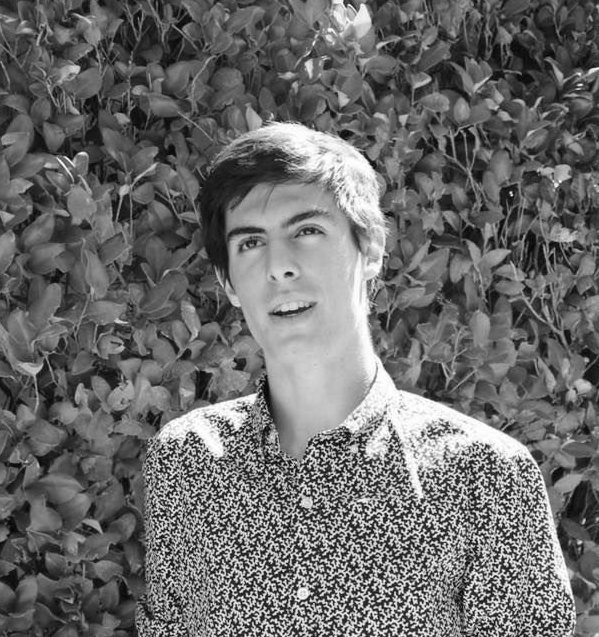
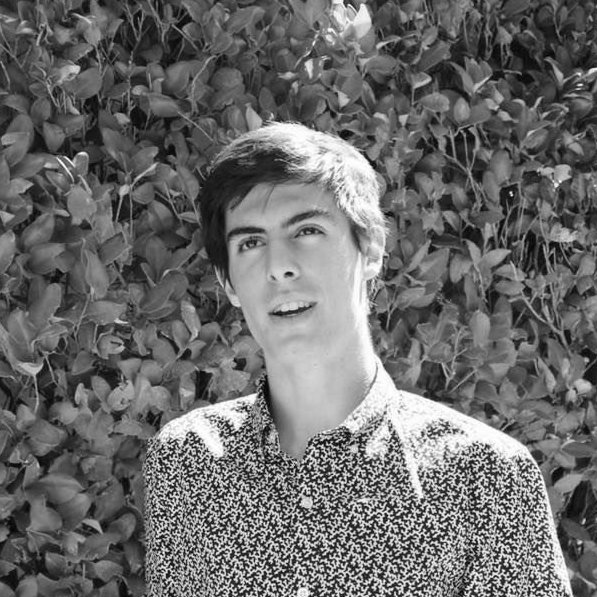
Mentor update
added Carl
adjusted Singer’s picture
changed order

diff --git a/mentors.html b/mentors.html
@@ -41,22 +41,23 @@
     <h1>Meet your mentors.</h1>
     <div class="twelve-hundred">
       <div class="mentor"><h2>Sameer Gupta</h2><img class="mentor-image" src="images/Sameer.jpg" /><p>Co-founder of Golfstream, Founding Member of the Weiss Tech House at the University of Pennsylvania.</p><img class="mentor-school" src="images/UPenn.jpg" /><img class="mentor-school" src="images/m&t.jpg" /></div>
-      <div class="mentor"><h2>Ari Engelberg</h2><img class="mentor-image" src="images/Ari.jpg" /><p>Co-founder of Stamps.com, former Exec Director of Bright Star Schools.</p><img class="mentor-school" src="images/BerkelyMain.png" /><img class="mentor-school" src="images/UCLAanderson.png" /><img class="mentor-school" src="images/UCLALaw.jpeg" /></div>
-      <div class="mentor"><h2>Natalie Bartlett</h2><img class="mentor-image" src="images/Natalie.jpg" /><p>Associate at General Catalyst, Platform Manager at Rough Draft Ventures.</p><img class="mentor-school" src="images/HarvardEd.jpg" /><img class="mentor-school" src="images/UPenn.jpg" /></div>
-      <div class="mentor"><h2>Bill Leamon</h2><img class="mentor-image" src="images/Bill.jpg" /><p>Co-founder of America Mentors & Sea Change, Professor of Entrepreneurship at Notre Dame.</p><img class="mentor-school" src="images/CaseWestern.jpg" /><img class="mentor-school" src="images/Citadel.jpg" /></div>
       <div class="mentor"><h2>Jerry Wilmink</h2><img class="mentor-image" src="images/Jerry.jpg" /><p>Founder & CEO of WiseWear, Advisor & Mentor at Techstars, YEC Member.</p><img class="mentor-school" src="images/Vanderbilt.jpg" /><img class="mentor-school" src="images/UTAustin.png" /></div>
+      <div class="mentor"><h2>Natalie Bartlett</h2><img class="mentor-image" src="images/Natalie.jpg" /><p>Associate at General Catalyst, Platform Manager at Rough Draft Ventures.</p><img class="mentor-school" src="images/HarvardEd.jpg" /><img class="mentor-school" src="images/UPenn.jpg" /></div>
+      <div class="mentor"><h2>Carl Sjogreen</h2><img class="mentor-image" src="images/Carl.png" /><p>Co-founder of Seesaw Learning & nextstop.com (sold to Facebook), Former PM at Facebook & Google.</p><img class="mentor-school" src="images/Harvard.png" /></div>
+      <div class="mentor"><h2>Ari Engelberg</h2><img class="mentor-image" src="images/Ari.jpg" /><p>Co-founder of Stamps.com, former Exec Director of Bright Star Schools.</p><img class="mentor-school" src="images/BerkelyMain.png" /><img class="mentor-school" src="images/UCLAanderson.png" /><img class="mentor-school" src="images/UCLALaw.jpeg" /></div>
       <div class="mentor"><h2>Richard Dulude</h2><img class="mentor-image" src="images/Richard.jpg" /><p>Principal at _Underscore.VC, P&G eCommerce Brand Manager, former Developer at Apple (iTunes).</p><img class="mentor-school" src="images/HBS.jpg" /><img class="mentor-school" src="images/Cornell.png" /></div>
       <div class="mentor"><h2>Jon Stahl</h2><img class="mentor-image" src="images/Jon.jpeg" /><p>Co-founder & CEO of LeanDog, Agile Software Development Coach.</p><img class="mentor-school" src="images/Ohio.jpg" /></div>
+      <div class="mentor"><h2>Bill Leamon</h2><img class="mentor-image" src="images/Bill.jpg" /><p>Co-founder of America Mentors & Sea Change, Professor of Entrepreneurship at Notre Dame.</p><img class="mentor-school" src="images/CaseWestern.jpg" /><img class="mentor-school" src="images/Citadel.jpg" /></div>
       <div class="mentor"><h2>Patrick Cines</h2><img class="mentor-image" src="images/Patrick.jpg" /><p>Partner Development Associate at Google, Growth at Uber.</p><img class="mentor-school" src="images/Penn State.png" /></div>
       <div class="mentor"><h2>Diana Yuan</h2><img class="mentor-image" src="images/Diana.png" /><p>Co-founder & COO of indico data solutions, Babson eTower President.</p><img class="mentor-school" src="images/Babson.png" /></div>
-      <div class="mentor"><h2>Jillian Kando</h2><img class="mentor-image" src="images/Jillian.jpg" /><p>CTO of Cut & Fold, former CTO of Bookity & Co-founder of CraveLabs.</p><img class="mentor-school" src="images/NUCEE.jpg" /></div>
       <div class="mentor"><h2>Jeremy Gardner</h2><img class="mentor-image" src="images/Jeremy.jpg" /><p>Co-founder of Augur & the Blockchain Education Network, Entrepreneur in Residence at Blockchain Capital.</p><img class="mentor-school" src="images/Michigan.png" /><img class="mentor-school" src="images/Bard.png" /></div>
+      <div class="mentor"><h2>Jillian Kando</h2><img class="mentor-image" src="images/Jillian.jpg" /><p>CTO of Cut & Fold, former CTO of Bookity & Co-founder of CraveLabs.</p><img class="mentor-school" src="images/NUCEE.jpg" /></div>
       <div class="mentor"><h2>Daniel Singer</h2><img class="mentor-image" src="images/Daniel.jpg" /><p>Product at Sensay and Disrupt Cards. Founder of Bond & Backchat.</p><img class="mentor-school" src="images/hw dropout.png" /></div>
-      <div class="mentor"><h2>Bridgette Wallace</h2><img class="mentor-image" src="images/Bridgette.jpg" /><p>Founder of Skylab Boston, Masters in Public Policy.</p><img class="mentor-school" src="images/Tufts.png" /></div>
       <div class="mentor"><h2>Jackie Phillips</h2><img class="mentor-image" src="images/Jackie.jpg" /><p>Founder of Precious Beast (an art & graphic design studio), Entertainment Industry Professional.</p><img class="mentor-school" src="images/Northwestern.png" /></div>
+      <div class="mentor"><h2>Bridgette Wallace</h2><img class="mentor-image" src="images/Bridgette.jpg" /><p>Founder of Skylab Boston, Masters in Public Policy.</p><img class="mentor-school" src="images/Tufts.png" /></div>
       <div class="mentor"><h2>Hanson Grant</h2><img class="mentor-image" src="images/Hanson.jpg" /><p>Founder & CEO of Think Board, MassChallenge Finalist.</p><img class="mentor-school" src="images/Babson.png" /></div>
-      <div class="mentor"><h2>Derek Tu</h2><img class="mentor-image" src="images/Derek.jpg" /><p>Co-founder of Womentum, Student Partner at Rough Draft Ventures.</p><img class="mentor-school" src="images/Babson.png" /></div>
       <div class="mentor"><h2>Jacob Roscoe</h2><img class="mentor-image" src="images/Jacob.png" /><p>Co-founder of Object Digital Media, Co-President of the NYIT Student Advisory Board.</p><img class="mentor-school" src="images/NYIT.png" /></div>
+      <div class="mentor"><h2>Derek Tu</h2><img class="mentor-image" src="images/Derek.jpg" /><p>Co-founder of Womentum, Student Partner at Rough Draft Ventures.</p><img class="mentor-school" src="images/Babson.png" /></div>
       <div class="mentor"><h2>Jared Silver</h2><img class="mentor-image" src="images/Jared.jpg" /><p>Founder of SameClasses, Edtech Web Developer at Quill & CodeAcademy.</p><img class="mentor-school" src="images/Babson.png" /></div>
       <div class="mentor"><h2>David Zamarin</h2><img class="mentor-image" src="images/David.jpg" /><p>Founder of Detrapel & Prestige Valet, COO of Optumed.</p><img class="mentor-school" src="images/Babson.png" /></div>
 
